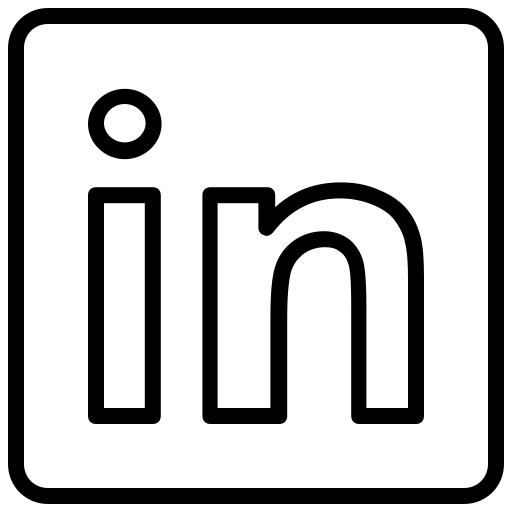
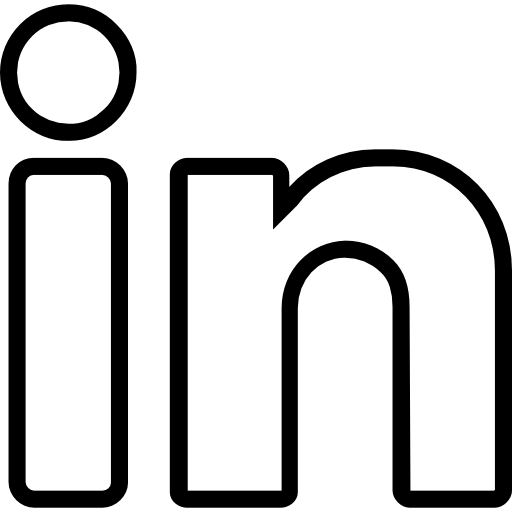
Actualizados iconos de GitHub y LinkedIn con nuevas versiones PNG

diff --git a/index.html b/index.html
@@ -408,7 +408,7 @@
 
         <div class="contact-info">
             <a href="https://github.com/manueljalvaradov" target="_blank" class="contact-item">
-                <i data-lucide="Github"></i> <span>GitHub</span>
+                <img src="github.png" alt="GitHub" class="contact-icon-img"> <span>GitHub</span>
             </a>
             <a href="https://www.linkedin.com/in/manuel-alvarado-528a4624a/" target="_blank" class="contact-item">
                 <img src="linkedin.png" alt="LinkedIn" class="contact-icon-img"> <span>LinkedIn</span>
